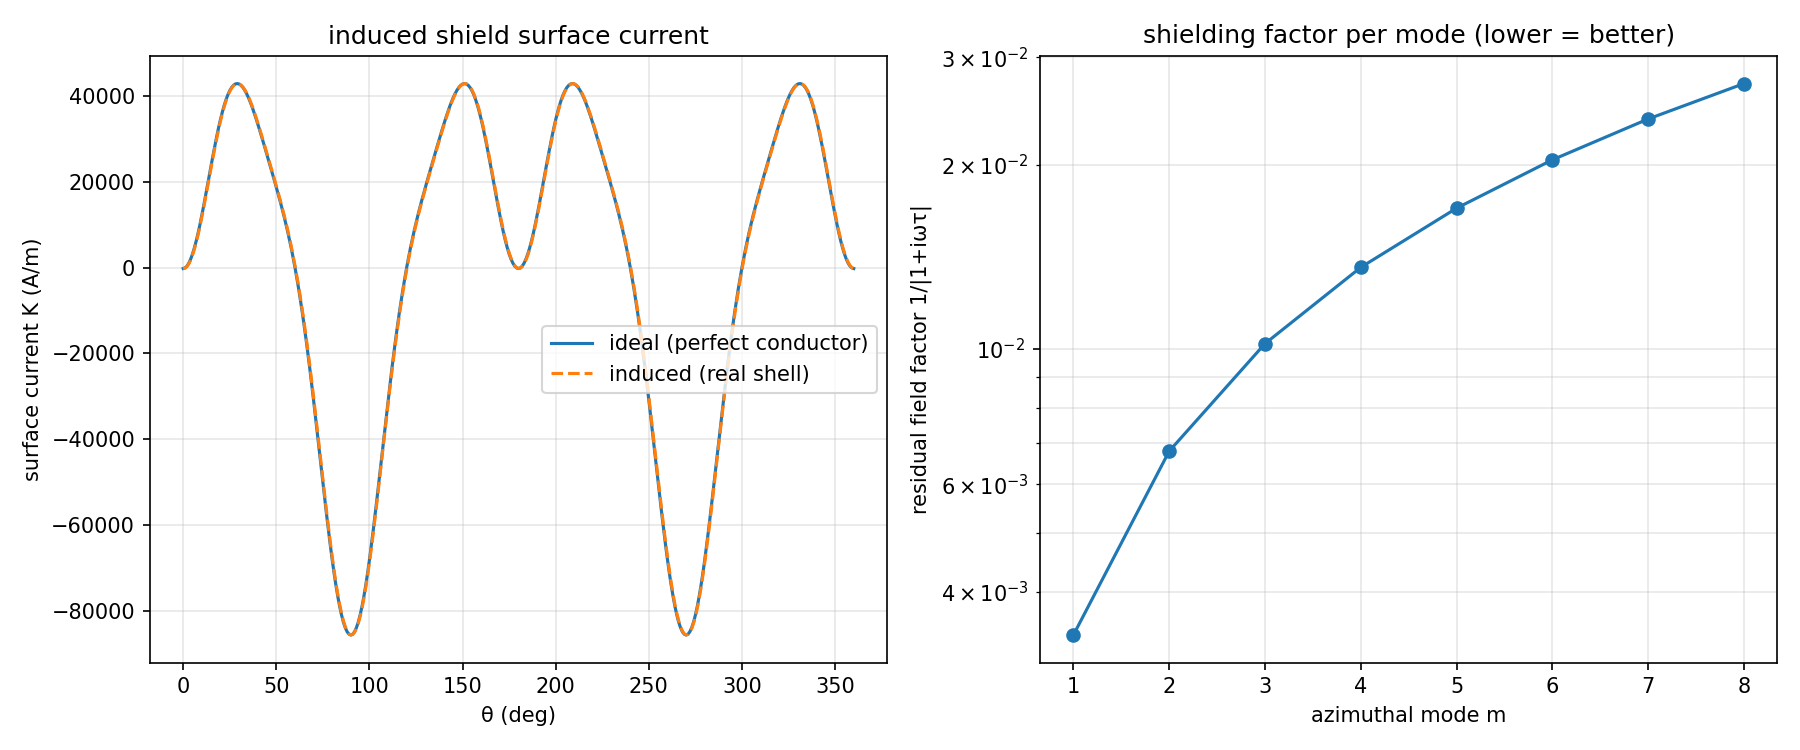
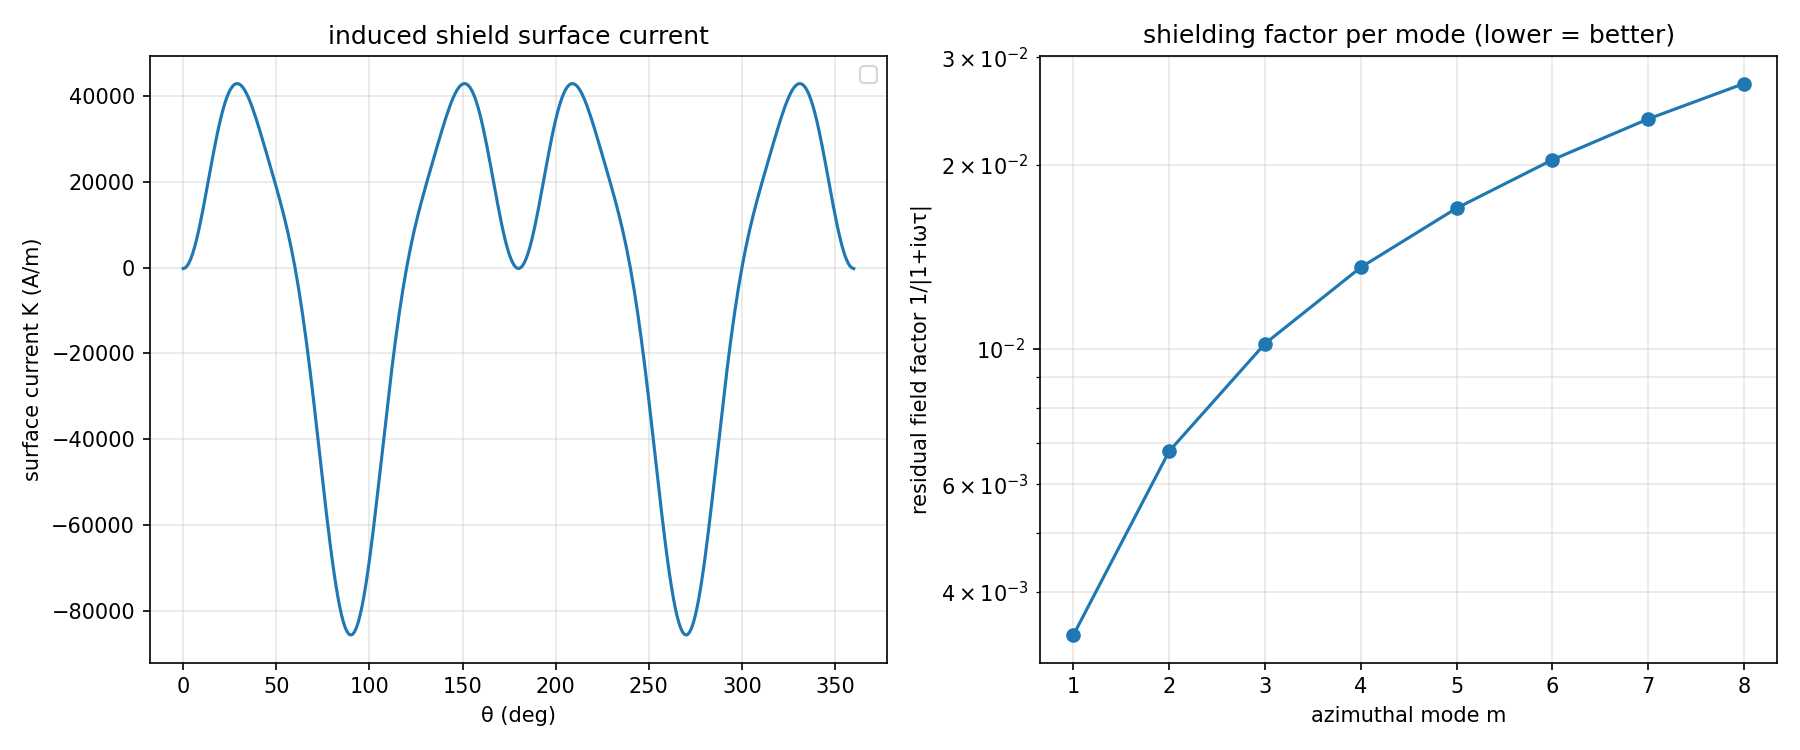
Add shield2D.py for 2-D PSXM leakage analysis with response-matrix method
This script calculates the leakage of magnetic fields from a quadrupole coil system using an interactive shielding approach. It solves for coil currents and computes the corresponding shield currents to minimize leakage, providing visual output of the results.

diff --git a/interact/interactive_shield.py b/interact/interactive_shield.py
@@ -27,20 +27,28 @@ import numpy as np
 import matplotlib.pyplot as plt
 from matplotlib.widgets import Slider, TextBox
 
+import os, sys
+sys.path.insert(0, os.path.dirname(os.path.dirname(os.path.abspath(__file__))))  # add PSXM_sim/ to path
+
 from coils import MU0
 from PSXM_coils import PSXMCoils
 from current_solver import CurrentSolver
-from interactive_plot import _remove_contour_set, _HoverReadout
+from interactive_plot import _remove_contour_set, _HoverReadout, format_B
 
 G = 1e-3              # target field gradient, T/mm
 N_SAMPLE = 12        # sample points on the target ring
 MAX_CURRENT = 1000.0  # coil currents rescaled so max|I| = this (A) for display
-SHIELD_R_MAX = 42.0  # max shield radius (mm); also fixes the plot extent
+SHIELD_R_MAX = 420  # max shield radius (mm) for the slider
+VIEW_MM = 450.0      # plot half-extent (mm): field lines + gray fill this whole box.
+                     #   raise it to reach further out (e.g. 450 for the 0.45 m beam),
+                     #   but the magnet then looks smaller.
 
 # hover-arrow scaling (blue B arrow and red muon-force arrow):
 #   length (mm) = ARROW_MM_PER_TESLA * |B| ,  capped at ARROW_MAX_MM
 ARROW_MM_PER_TESLA = 400.0
 ARROW_MAX_MM = 15.0
+
+BENCH_R_MM = 419.0   # mm: show ring-averaged |B| at this radius (nearest-beam distance)
 
 
 def rotated_quad_target(x, y, theta):
@@ -53,7 +61,7 @@ class ShieldedRotationPanel:
     """theta / r / s / shield-R controls -> solve coil currents for the
     rotated quadrupole, drive the shield via I_shield = s*S@I_coil, redraw."""
 
-    def __init__(self, n_grid=200, n_levels=40, extent=4.0 / 3.0, sample_r=1.0,
+    def __init__(self, n_grid=300, n_levels=40, extent=4.0 / 3.0, sample_r=1.0,
                  shield_radius=27.5, shield_n=100, **coil_kwargs):
         self.coil_kwargs = dict(coil_kwargs, shield=True,
                                 shield_radius=shield_radius, shield_n=shield_n)
@@ -66,9 +74,9 @@ class ShieldedRotationPanel:
         self.shield_scale = 1.0
         self._updating = False
 
-        # fixed plot grid (sized for the largest shield radius, so the view
-        # does not jump when shield R changes)
-        self._L = SHIELD_R_MAX * extent
+        # grid AND view both span +/- VIEW_MM, so the field lines and the
+        # gray region fill the whole plot instead of a tiny central blob.
+        self._L = VIEW_MM
         xs = np.linspace(-self._L, self._L, n_grid)
         self._X, self._Y = np.meshgrid(xs, xs)
 
@@ -220,6 +228,8 @@ class ShieldedRotationPanel:
             0.52, "shield R (mm)", sr_min, SHIELD_R_MAX, self.shield_radius, self._on_shield_radius)
         self.fig.text(0.68, 0.47, "s: 0=no shield, 1=full | R: shield can radius",
                       fontsize=8, color="gray")
+        self._bench_text = self.fig.text(0.06, 0.955, "", fontsize=11,
+                                         fontweight="bold", color="tab:red", zorder=3)
 
     def _on_theta(self, v):
         self.theta = np.deg2rad(v)
@@ -254,8 +264,8 @@ class ShieldedRotationPanel:
             a = np.radians(tpl.center_angles[k])
             ax.text(tpl.radius * 1.15 * np.cos(a), tpl.radius * 1.15 * np.sin(a),
                     f"$I_{k + 1}$", ha="center", va="center", fontsize=11, clip_on=True)
-        ax.set_xlim(-L, L)
-        ax.set_ylim(-L, L)
+        ax.set_xlim(-self._L, self._L)
+        ax.set_ylim(-self._L, self._L)
         ax.set_aspect("equal")
         ax.set_xlabel("X (mm)")
         ax.set_ylabel("Y (mm)")
@@ -271,6 +281,17 @@ class ShieldedRotationPanel:
         length = 0.15 * self.shield_radius * np.abs(I_shield) / max_abs
         direction = np.sign(I_shield)
         self._shield_quiver.set_UVC(direction * ux * length, direction * uy * length)
+
+    def _bench_field(self, n=24):
+        """Ring-averaged |B| (T) at BENCH_R_MM (well outside the view)."""
+        r = BENCH_R_MM
+        vals = []
+        for a in np.linspace(0.01, 2 * np.pi, n, endpoint=False):
+            try:
+                vals.append(self.coils.B_magnitude(r * np.cos(a), r * np.sin(a)))
+            except ValueError:
+                pass
+        return float(np.mean(vals)) if vals else np.nan
 
     def _refresh(self):
         I_coil = self._solve_currents()
@@ -296,6 +317,8 @@ class ShieldedRotationPanel:
             f"θ = {np.degrees(self.theta):.0f}°   |   r = {self.sample_r:.2f} mm   |   "
             f"s = {self.shield_scale:.2f}   |   shield R = {self.shield_radius:.1f} mm\n{currents}",
             fontsize=9)
+        self._bench_text.set_text(
+            f"|B| at {BENCH_R_MM/1000:.3f} m (ring-avg): {format_B(self._bench_field())}")
         self.fig.canvas.draw_idle()
 
     def show(self):
@@ -304,7 +327,7 @@ class ShieldedRotationPanel:
 
 def main():
     p = argparse.ArgumentParser(description="Interactive shielded rotational-quadrupole PSXM viewer.")
-    p.add_argument("--n-grid", type=int, default=200, help="contour grid resolution")
+    p.add_argument("--n-grid", type=int, default=300, help="contour grid resolution")
     p.add_argument("--radius", type=float, default=22.5, help="coil ring radius, mm")
     p.add_argument("--coil-length", type=float, default=20.0, help="coil leg chord length, mm")
     p.add_argument("--shield-radius", type=float, default=27.5, help="initial shield can radius, mm")

diff --git a/shield2D.py b/shield2D.py
@@ -1,0 +1,115 @@
+"""shield2D.py -- 2-D (infinite straight wire) PSXM leakage vs RADIUS,
+using the interactive_shield response-matrix method.
+
+The coil currents are solved for the centre quadrupole using the COIL DOF only
+(and normalized to MAX_CURRENT on the coils). The shield currents are the
+decoupled response  I_shield = S @ I_coil  with  S = -K_s^+ K_6  (least
+squares nulling the field on/around the shield). This is NOT the joint
+106-variable solve (which normalizes coil+shield together and gives a
+broken, backwards result).
+
+Leakage = ring-averaged |B| vs radial distance rho (2-D, no z).
+"""
+
+import numpy as np
+import matplotlib.pyplot as plt
+
+from PSXM_coils import PSXMCoils
+from current_solver import CurrentSolver
+
+MAX_CURRENT = 1000.0        # A, coil currents normalized so max|I_coil| = this
+SHIELD_N = 100
+G = 1e-3                    # T/mm, target central quadrupole gradient
+SAMPLE_GAP_MM = 2.0         # mm: radial offset between the shield line currents
+                            #     and the B=0 sample points (see note below)
+DIST_MARKS_MM = (100.0, 419.0)   # mm: 0.1 m benchmark, ~0.42 m nearest beam
+R_MAX_MM = 420.0
+SHIELD_RADIUS = 250        # mm, shield radius (PSXM_sim model value)
+
+def ring_meanB(coils, rho, n=96):
+    vals = []
+    for a in np.linspace(0.017, 2 * np.pi + 0.017, n, endpoint=False):
+        try:
+            vals.append(coils.B_magnitude(rho * np.cos(a), rho * np.sin(a)))
+        except ValueError:
+            pass
+    return float(np.mean(vals)) if vals else np.nan
+
+
+def solve_currents(shield_n=SHIELD_N, n_between=3, outer=5.0):
+    """interactive_shield method: coil currents for the centre quadrupole
+    (coil DOF only, normalized on the coils), then shield response
+    I_shield = S @ I_coil."""
+    tpl = PSXMCoils(currents=np.zeros(6), shield=True, shield_n=shield_n,shield_radius=SHIELD_RADIUS)
+    M = tpl.group_matrix()
+
+    # --- coil currents for the centre quadrupole (coil DOF only) ---
+    ang = np.linspace(0, 2 * np.pi, 12, endpoint=False)
+    solver_c = CurrentSolver.from_current_source(tpl)
+    for a in ang:
+        x, y = np.cos(a), np.sin(a)                            # 1 mm ring
+        solver_c.add_sample_point(x, y, Bx=G * y, By=G * x)    # quadrupole target
+    Kc = solver_c.coefficient_matrix() @ M
+    Kcoil = Kc[:, :PSXMCoils.N_COILS]
+    Btarget = solver_c.target_field()
+    I_coil, *_ = np.linalg.lstsq(Kcoil, Btarget, rcond=None)
+    I_coil = CurrentSolver.normalize_currents(I_coil, MAX_CURRENT)
+
+    # --- shield response S: null the field just OFF the shield ---
+    # The B=0 sample points are offset radially by SAMPLE_GAP_MM from the
+    # discrete shield line currents. Sampling right on the shield puts them
+    # ~0.9 mm from a current (in the azimuthal gaps), inside the singular
+    # 1/r near-field, which forces the least squares to keep the shield
+    # currents tiny and kills the shielding.
+    solver_s = CurrentSolver.from_current_source(tpl)
+    gap = 360.0 / shield_n
+    for radius in (tpl.shield_radius + SAMPLE_GAP_MM, tpl.shield_radius + outer):
+        for base in tpl.shield_angles:
+            for j in range(1, n_between + 1):
+                a = np.radians(base + j * gap / (n_between + 1))
+                solver_s.add_sample_point(radius * np.cos(a), radius * np.sin(a), 0.0, 0.0)
+    KM = solver_s.coefficient_matrix() @ M
+    K6 = KM[:, :PSXMCoils.N_COILS]
+    Ksh = KM[:, PSXMCoils.N_COILS:]
+    X, *_ = np.linalg.lstsq(Ksh, K6, rcond=None)
+    S = -X
+    I_shield = S @ I_coil
+    return tpl, I_coil, I_shield
+
+
+def main():
+    tpl, I_coil, I_shield = solve_currents()
+    kw = dict(radius=tpl.radius, coil_length=tpl.coil_length)
+    shielded = PSXMCoils(currents=I_coil, shield=True, shield_radius=tpl.shield_radius,
+                         shield_n=SHIELD_N, shield_currents=I_shield, **kw)
+    unshielded = PSXMCoils(currents=I_coil, **kw)
+
+    print(f"coil current: max {np.max(np.abs(I_coil)):.1f} A;  "
+          f"shield current: peak {np.max(np.abs(I_shield)):.1f} A, "
+          f"range [{I_shield.min():.1f}, {I_shield.max():.1f}] A")
+    for d in DIST_MARKS_MM:
+        bu, bs = ring_meanB(unshielded, d), ring_meanB(shielded, d)
+        print(f"radial leakage at {d/1000:.3f} m:  no-shield {bu*1e3:9.4f} mT   "
+              f"shielded {bs*1e6:8.3f} µT   (x{bu/bs:.1f})")
+
+    rho = np.geomspace(1.0, R_MAX_MM, 200)
+    Bun = np.array([ring_meanB(unshielded, r) for r in rho])
+    Bsh = np.array([ring_meanB(shielded, r) for r in rho])
+
+    plt.figure(figsize=(7.5, 5.5))
+    plt.loglog(rho / 1000, Bun * 1e3, label="no shield")
+    plt.loglog(rho / 1000, Bsh * 1e3, label="coils + shield")
+    for d in (tpl.radius, tpl.shield_radius, *DIST_MARKS_MM):
+        plt.axvline(d / 1000, color="gray", ls="--", lw=0.7)
+    plt.xlabel("radial distance ρ (m)")
+    plt.ylabel("ring-averaged |B| (mT)")
+    plt.title("PSXM leakage vs RADIUS (2-D infinite wire, response-matrix shield)")
+    plt.legend()
+    plt.grid(True, which="both", alpha=0.3)
+    plt.tight_layout()
+    plt.savefig("shield2D.png", dpi=150)
+    print("saved shield2D.png")
+
+
+if __name__ == "__main__":
+    main()

diff --git a/example.py b/example.py
@@ -87,26 +87,27 @@ def main():
     unshielded = PSXMCoils(currents=coil_currents, **kw)
 
     # leakage far enough out that the shield-point ripple has decayed
-    r_far = 2 * A_SHIELD_MM
     Bbeam = ring_meanB(unshielded, R_BEAM)
-    Bo_un = ring_meanB(unshielded, r_far)
-    Bo_sh = ring_meanB(shielded, r_far)
     print(f"beam |B| (r={R_BEAM:.0f} mm): {Bbeam*1e3:.3f} mT")
-    print(f"exterior |B| (r={r_far:.0f} mm):  no-shield {Bo_un*1e3:.4f} mT   shielded {Bo_sh*1e3:.4f} mT")
-    print(f"physical shield suppression at r={r_far:.0f} mm: {Bo_un/Bo_sh:.1f}x  "
-          f"({Bo_sh/Bo_un*100:.2f} % leaks through)")
+    for r_far in (2 * A_SHIELD_MM, 419.0):
+        Bo_un = ring_meanB(unshielded, r_far)
+        Bo_sh = ring_meanB(shielded, r_far)
+        print(f"exterior at r={r_far:6.1f} mm:  no-shield {Bo_un*1e6:10.3f} µT   "
+              f"shielded {Bo_sh*1e6:10.3f} µT   suppression {Bo_un/Bo_sh:.1f}x  "
+              f"({Bo_sh/Bo_un*100:.2f} % leaks)")
 
     # --- plots ---
     fig, (axf, axl) = plt.subplots(1, 2, figsize=(13, 6))
     shielded.draw(axf, extent=2, legend=False)
     axf.set_title("field lines + induced shield")
 
-    rho = np.geomspace(1.0, 3 * A_SHIELD_MM, 80)
+    rho = np.geomspace(1.0, 420.0, 140)      # out to 0.42 m (nearest-beam distance)
     Bsh = np.array([ring_meanB(shielded, r) for r in rho])
     Bun = np.array([ring_meanB(unshielded, r) for r in rho])
     axl.loglog(rho, Bun * 1e3, label="no shield")
     axl.loglog(rho, Bsh * 1e3, label="with induced shield")
-    for xr, lbl in [(22.5, "coils"), (A_SHIELD_MM, "shield"), (R_BEAM, "beam r")]:
+    for xr, lbl in [(22.5, "coils"), (A_SHIELD_MM, "shield"), (R_BEAM, "beam r"),
+                    (419.0, "0.419 m")]:
         axl.axvline(xr, color="gray", ls="--", lw=0.7)
         axl.text(xr, axl.get_ylim()[1], lbl, fontsize=7, rotation=90, va="top")
     axl.set_xlabel("radius ρ (mm)")

diff --git a/tracker measure/analyze_track.py b/tracker measure/analyze_track.py
@@ -9,11 +9,13 @@ Setup:  pip install uproot awkward numpy matplotlib
 Run:    python analyze_track.py
 """
 
+import os
 import numpy as np
 import matplotlib.pyplot as plt
 import uproot
 
-FNAME = "trk20000.root"
+# trk20000.root lives in PSXM_sim/ (parent of this script's folder)
+FNAME = os.path.join(os.path.dirname(os.path.dirname(os.path.abspath(__file__))), "trk20000.root")
 PSXM_Z = 1.10           # m, approximate PSXM location
 EXCLUDE_TURNS = 1.0     # ignore +/- this many turns around the PSXM point (same pass)
 
@@ -70,8 +72,8 @@ def main():
 
     ax[1].plot(r, z, ".", ms=1.5, color="0.6", label="beam")
     ax[1].plot(r[i0], z[i0], "r*", ms=14, label="PSXM")
-    ax[1].plot(r[j], z[j], "bo", ms=8, mfc="none", label="nearest other")
-    ax[1].plot([r[i0], r[j]], [z[i0], z[j]], "b--", lw=1)
+    #ax[1].plot(r[j], z[j], "bo", ms=8, mfc="none", label="nearest other")
+    ax[1].plot([r[i0]], [z[i0]], "b--", lw=1)
     ax[1].set_xlabel("r (m)"); ax[1].set_ylabel("z (m)")
     ax[1].set_title(f"nearest-beam distance = {d[j]:.3f} m"); ax[1].legend()
     fig.tight_layout()

diff --git a/field3d.py b/field3d.py
@@ -26,7 +26,7 @@ MU0 = 4e-7 * np.pi
 COIL_LENGTH_Z = 0.10   # m, axial length of the PSXM coils (ASSM eff. length ~0.1 m)
 MAX_CURRENT = 1000.0   # A, currents rescaled so max|I| = this
 SPEC_UT = 3.0          # µT, benchmark = 1e-6 of the 3 T main field
-DIST_MARKS = (0.235, 0.5)   # m, distances of interest (nearest beam / ~0.5 m)
+DIST_MARKS = (0.235, 0.42)   # m, distances of interest (nearest beam ~0.42 m)
 
 
 # ----------------------------------------------------------- Biot-Savart
@@ -128,7 +128,7 @@ def main():
     print(f"central dipole |B| (1 mm off-axis): {B_center*1e3:.3f} mT")
     print(f"spec benchmark: {SPEC_UT} µT  (1e-6 of 3 T)\n")
 
-    dist = np.geomspace(2e-3, 0.6, 200)
+    dist = np.geomspace(2e-3, 0.42, 200)
     axial = np.column_stack([np.zeros_like(dist), np.zeros_like(dist), dist])
     Bc = np.linalg.norm(B_coils(axial), axis=1)
     Bt = np.linalg.norm(B_total(axial), axis=1)

diff --git a/induced_shield.py b/induced_shield.py
@@ -92,8 +92,8 @@ def main():
 
     # --- plot ----------------------------------------------------------
     fig, ax = plt.subplots(1, 2, figsize=(12, 5))
-    ax[0].plot(np.degrees(th), K_ideal, label="ideal (perfect conductor)")
-    ax[0].plot(np.degrees(th), K_real, "--", label="induced (real shell)")
+    ax[0].plot(np.degrees(th), K_ideal, )
+    #ax[0].plot(np.degrees(th), K_real, "--", label="induced (real shell)")
     ax[0].set_xlabel("θ (deg)")
     ax[0].set_ylabel("surface current K (A/m)")
     ax[0].set_title("induced shield surface current")

diff --git a/interact/interactive_plot.py b/interact/interactive_plot.py
@@ -53,6 +53,8 @@ import matplotlib.pyplot as plt
 from matplotlib.transforms import Bbox
 from matplotlib.widgets import Slider, TextBox
 
+import os
+sys.path.insert(0, os.path.dirname(os.path.dirname(os.path.abspath(__file__))))  # add PSXM_sim/ to path
 from coils import MU0
 from current_solver import CurrentSolver
 from PSXM_coils import PSXMCoils

diff --git a/interact/interactive_rotation.py b/interact/interactive_rotation.py
@@ -36,6 +36,9 @@ import numpy as np
 import matplotlib.pyplot as plt
 from matplotlib.widgets import Slider, TextBox
 
+import os, sys
+sys.path.insert(0, os.path.dirname(os.path.dirname(os.path.abspath(__file__))))  # add PSXM_sim/ to path
+
 from coils import MU0
 from PSXM_coils import PSXMCoils
 from current_solver import CurrentSolver
